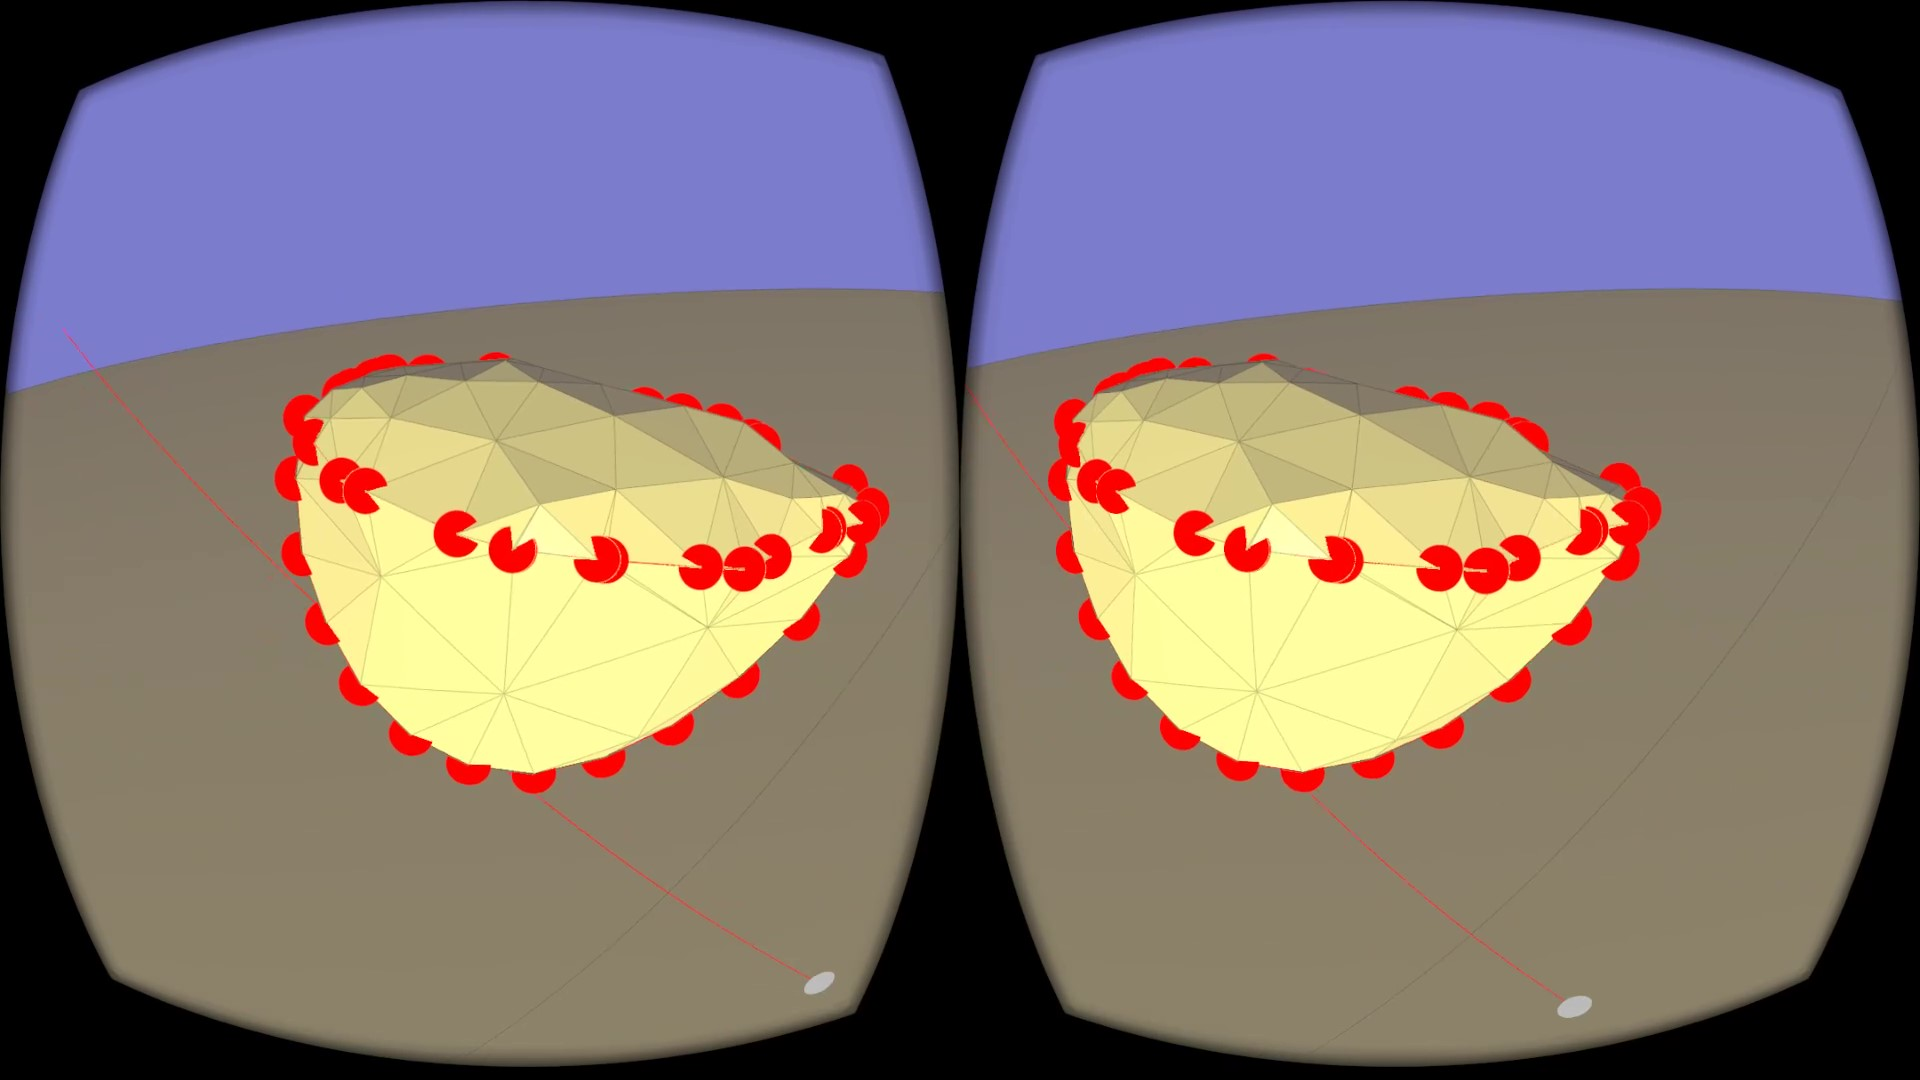
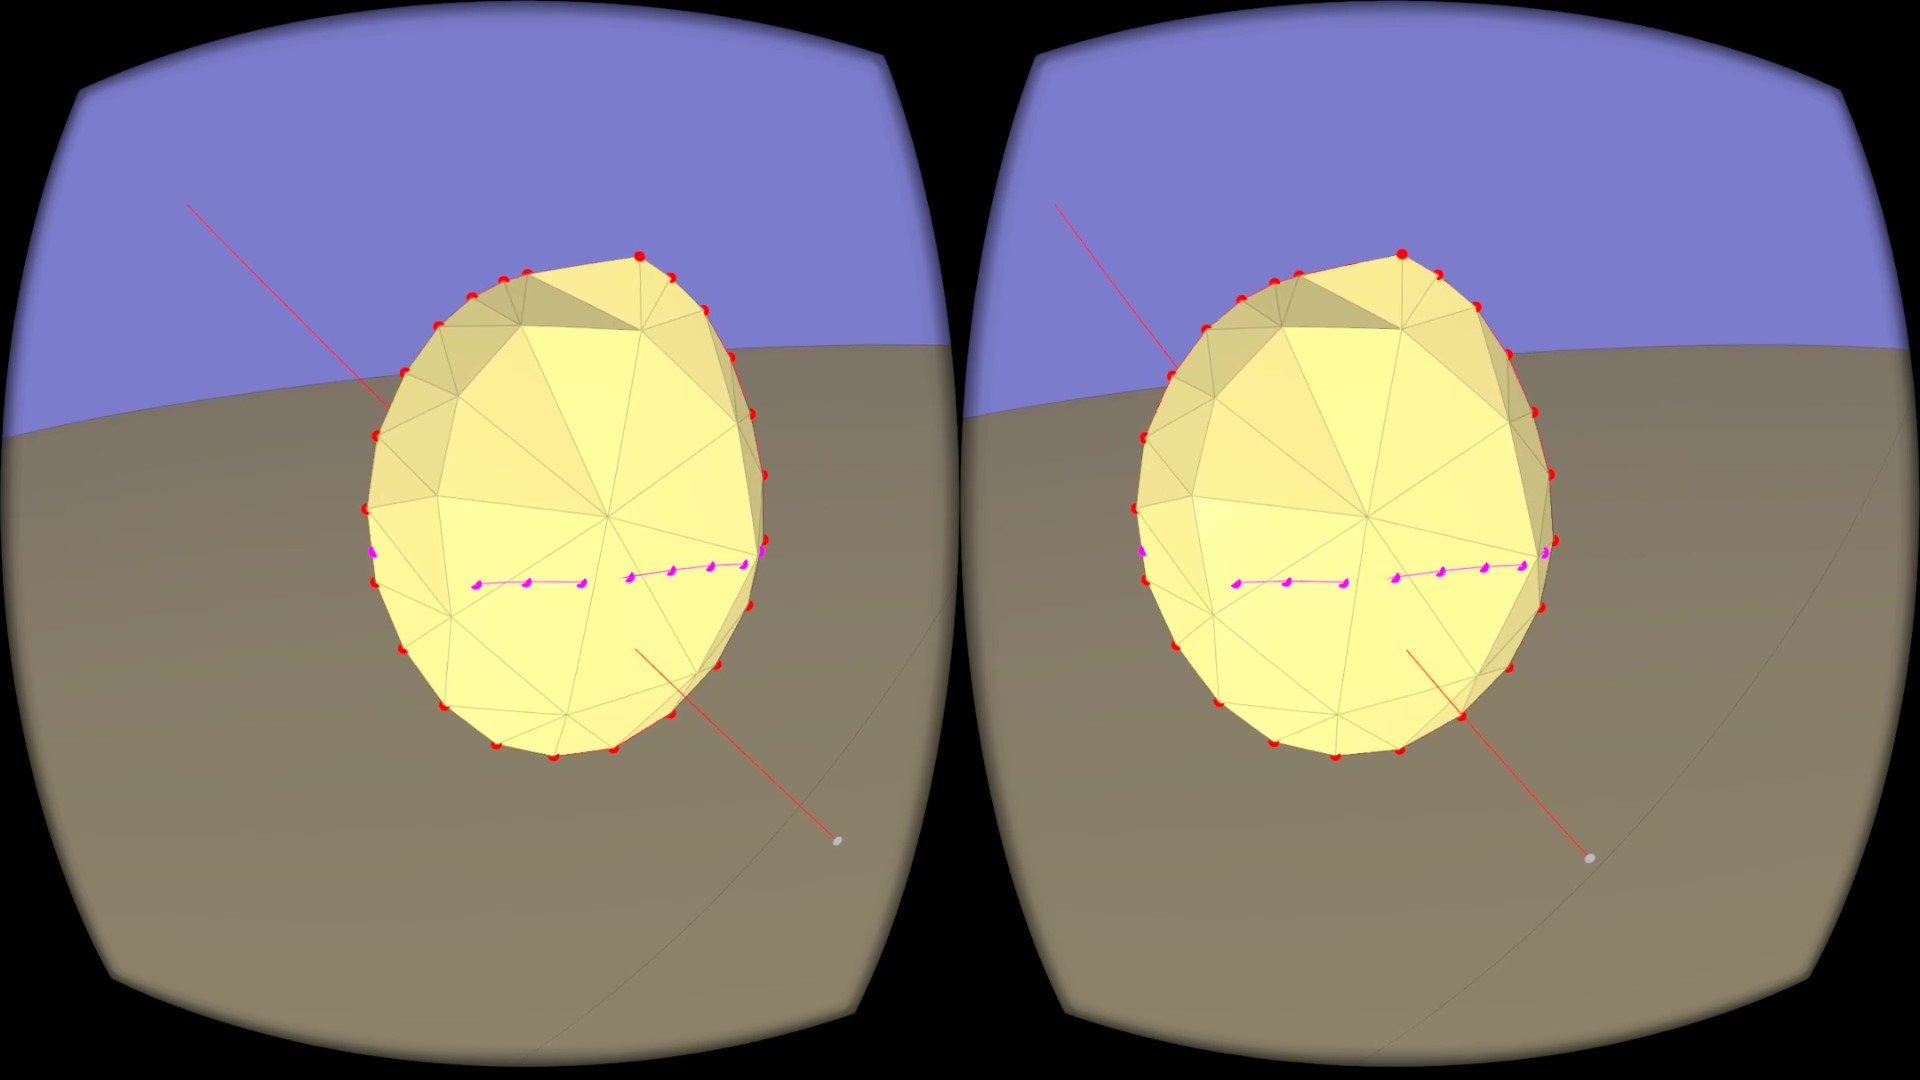
new figurse with smaller points

diff --git a/VR-SketchMesh/src/SketchMeshVR.cpp b/VR-SketchMesh/src/SketchMeshVR.cpp
@@ -716,7 +716,7 @@ int main(int argc, char *argv[]) {
 	CurveDeformation::smooth_deform_mode = true;
 	viewervr.init();
 	viewervr.callback_button_down = button_down;
-	viewervr.corevr.point_size = 55;
+	viewervr.corevr.point_size = 15;
 	viewervr.launch();
 }
 
